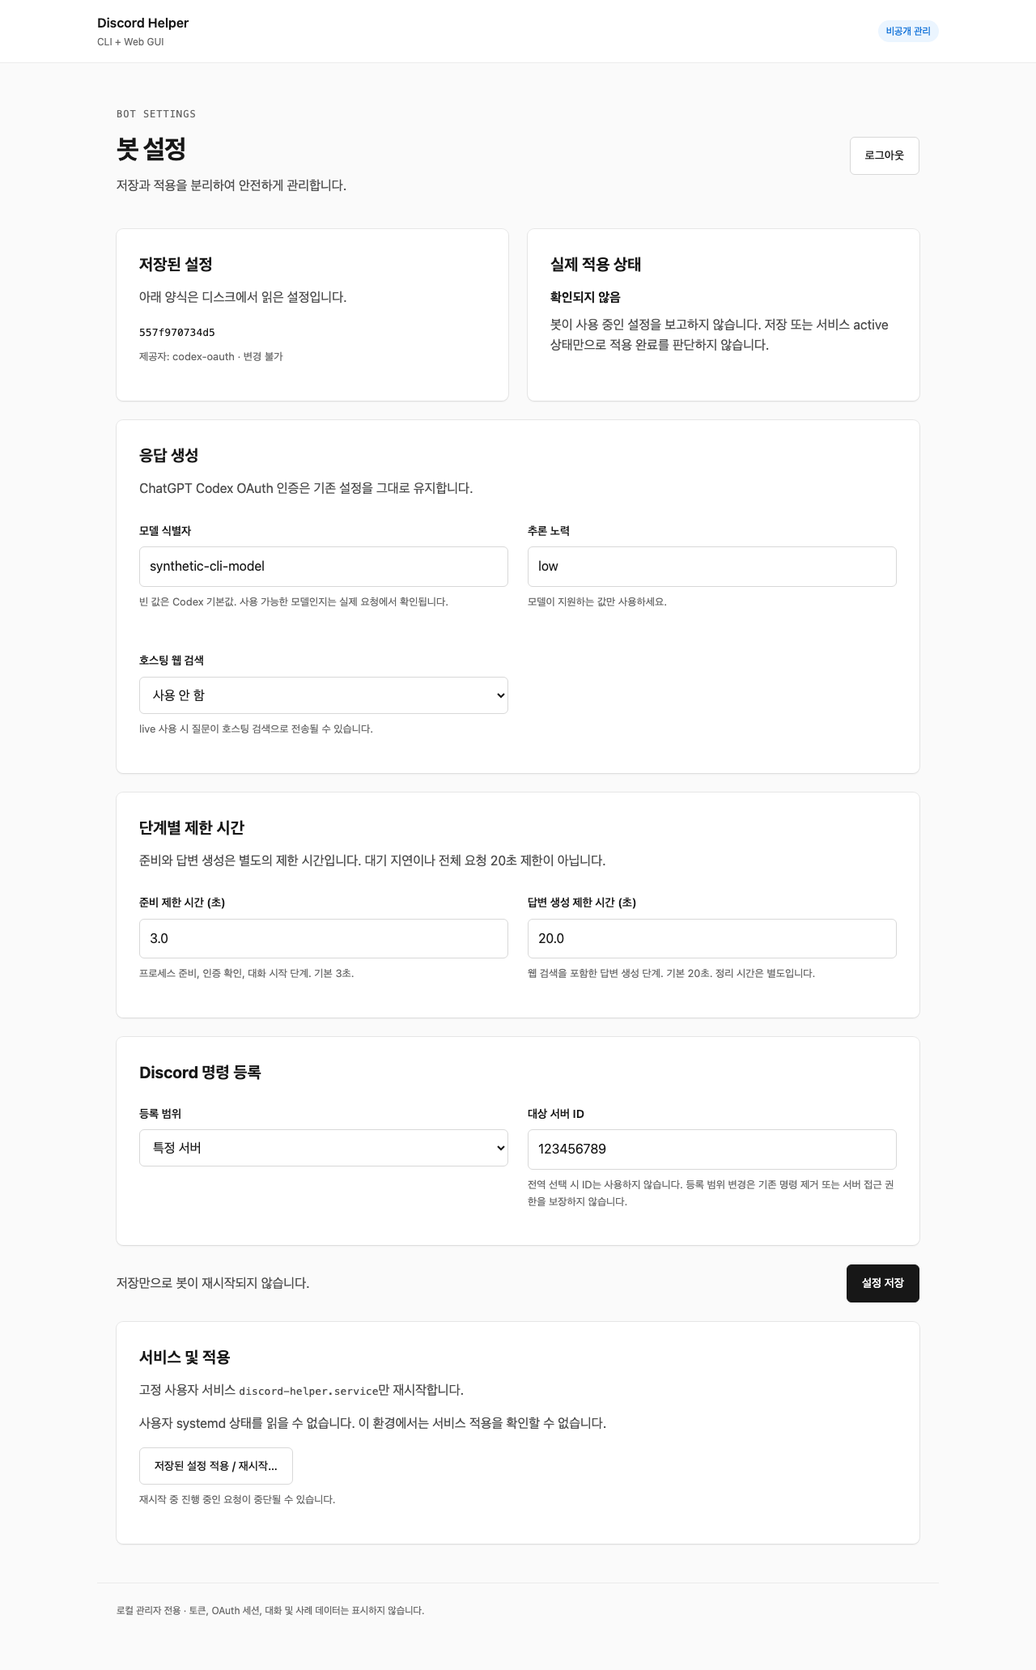
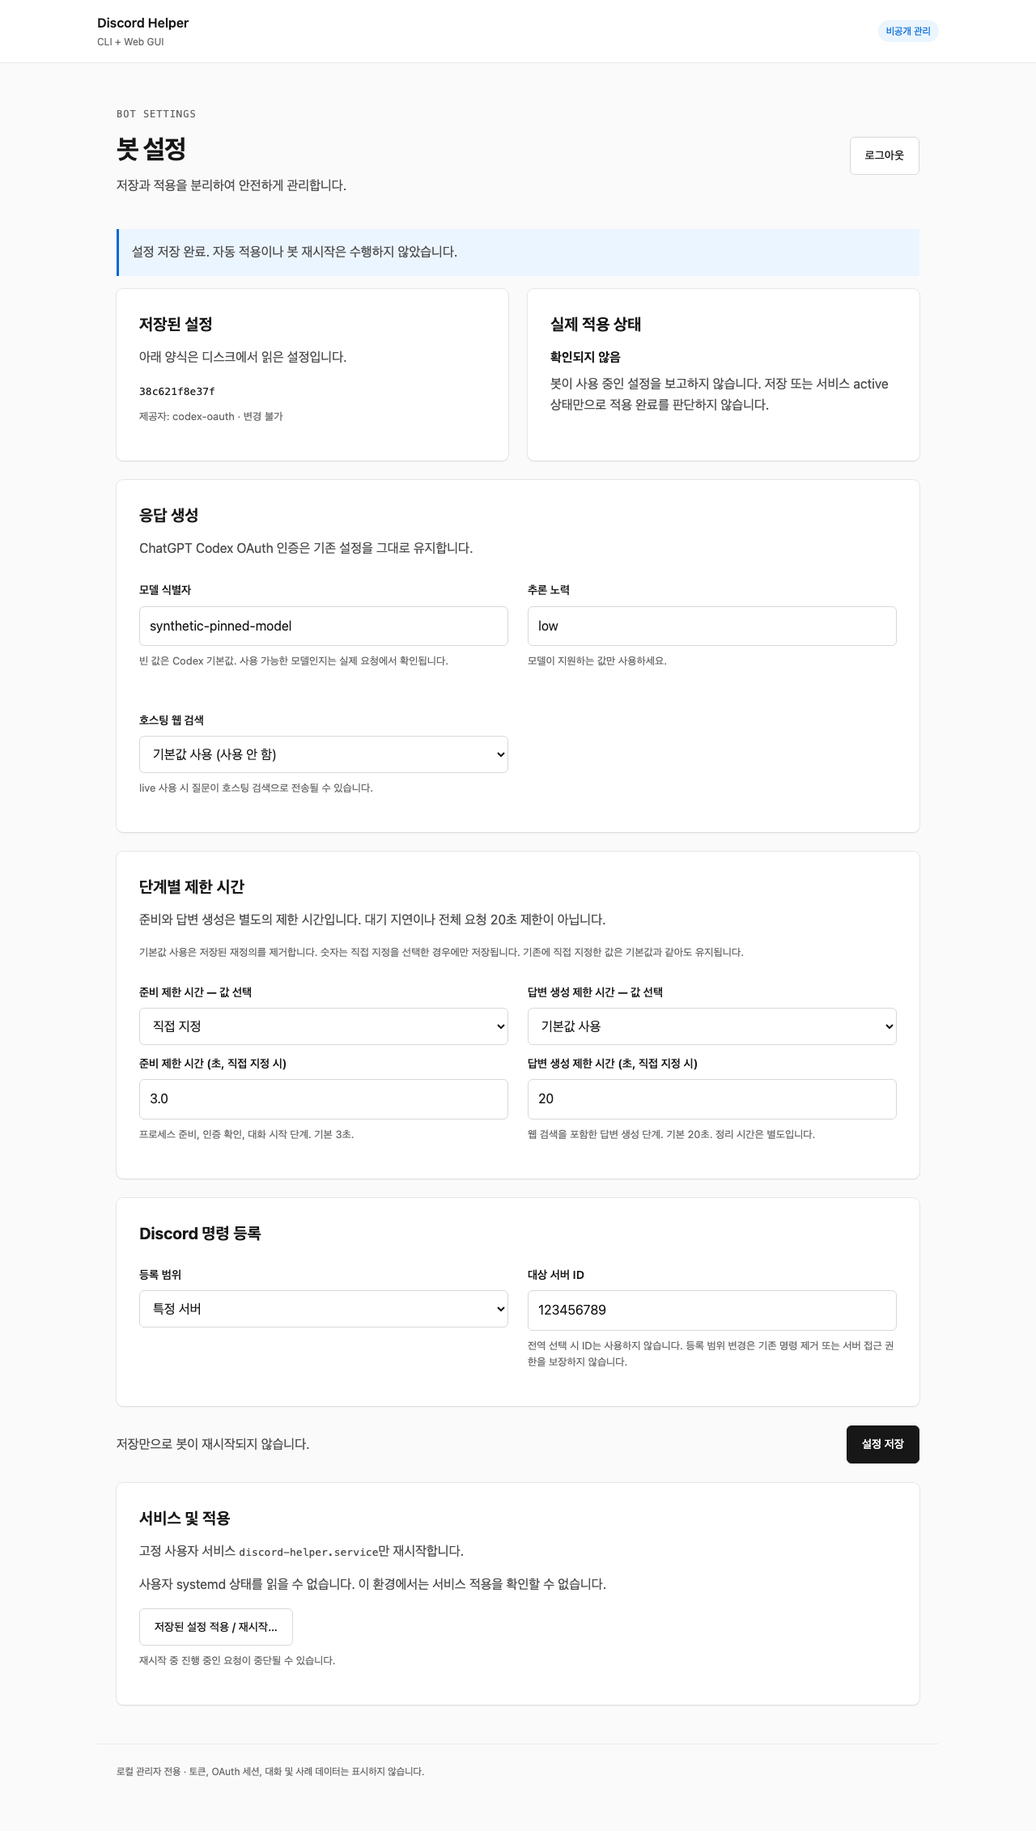
fix: preserve omitted GUI defaults with explicit override modes

diff --git a/helperbot/web_templates/settings.html b/helperbot/web_templates/settings.html
@@ -3,8 +3,25 @@
 {% if message %}<p role="status" class="notice">{{ message }}</p>{% endif %}
 <div class="summary"><section class="card"><h2>저장된 설정</h2><p>아래 양식은 디스크에서 읽은 설정입니다.</p><code>{{ config.revision[:12] }}</code><p class="hint">제공자: {{ config.provider }} · 변경 불가</p></section><section class="card"><h2>실제 적용 상태</h2><strong>확인되지 않음</strong><p>봇이 사용 중인 설정을 보고하지 않습니다. 저장 또는 서비스 active 상태만으로 적용 완료를 판단하지 않습니다.</p></section></div>
 <form method="post" action="/save">{{ csrf() }}<input type="hidden" name="revision" value="{{ config.revision }}">
-<section class="card"><h2>응답 생성</h2><p>ChatGPT Codex OAuth 인증은 기존 설정을 그대로 유지합니다.</p><div class="fields"><div><label for="model">모델 식별자</label><input id="model" name="model" maxlength="128" value="{{ config['values'].model }}" placeholder="Codex 기본값"><p class="hint">빈 값은 Codex 기본값. 사용 가능한 모델인지는 실제 요청에서 확인됩니다.</p></div><div><label for="effort">추론 노력</label><input id="effort" name="model_reasoning_effort" maxlength="128" value="{{ config['values'].model_reasoning_effort }}" placeholder="Codex 기본값"><p class="hint">모델이 지원하는 값만 사용하세요.</p></div><div><label for="web_search">호스팅 웹 검색</label><select id="web_search" name="web_search">{% for value,label in [('disabled','사용 안 함'),('live','실시간 검색 (live)')] %}<option value="{{ value }}" {% if config['values'].web_search == value %}selected{% endif %}>{{ label }}</option>{% endfor %}</select><p class="hint">live 사용 시 질문이 호스팅 검색으로 전송될 수 있습니다.</p></div></div></section>
-<section class="card"><h2>단계별 제한 시간</h2><p>준비와 답변 생성은 별도의 제한 시간입니다. 대기 지연이나 전체 요청 20초 제한이 아닙니다.</p><div class="fields"><div><label for="setup_timeout_seconds">준비 제한 시간 (초)</label><input id="setup_timeout_seconds" name="setup_timeout_seconds" type="number" step="any" required value="{{ config['values'].setup_timeout_seconds }}"><p class="hint">프로세스 준비, 인증 확인, 대화 시작 단계. 기본 3초.</p></div><div><label for="generation_timeout_seconds">답변 생성 제한 시간 (초)</label><input id="generation_timeout_seconds" name="generation_timeout_seconds" type="number" step="any" required value="{{ config['values'].generation_timeout_seconds }}"><p class="hint">웹 검색을 포함한 답변 생성 단계. 기본 20초. 정리 시간은 별도입니다.</p></div></div></section>
+<section class="card"><h2>응답 생성</h2><p>ChatGPT Codex OAuth 인증은 기존 설정을 그대로 유지합니다.</p><div class="fields"><div><label for="model">모델 식별자</label><input id="model" name="model" maxlength="128" value="{{ config['values'].model }}" placeholder="Codex 기본값"><p class="hint">빈 값은 Codex 기본값. 사용 가능한 모델인지는 실제 요청에서 확인됩니다.</p></div><div><label for="effort">추론 노력</label><input id="effort" name="model_reasoning_effort" maxlength="128" value="{{ config['values'].model_reasoning_effort }}" placeholder="Codex 기본값"><p class="hint">모델이 지원하는 값만 사용하세요.</p></div><div><label for="web_search">호스팅 웹 검색</label><select id="web_search" name="web_search">{% for value,label in [('', '기본값 사용 (사용 안 함)'),('disabled','사용 안 함'),('live','실시간 검색 (live)')] %}<option value="{{ value }}" {% if (config['values'].web_search if 'web_search' in config.configured else '') == value %}selected{% endif %}>{{ label }}</option>{% endfor %}</select><p class="hint">live 사용 시 질문이 호스팅 검색으로 전송될 수 있습니다.</p></div></div></section>
+<section class="card"><h2>단계별 제한 시간</h2>
+<p>준비와 답변 생성은 별도의 제한 시간입니다. 대기 지연이나 전체 요청 20초 제한이 아닙니다.</p>
+<p class="hint">기본값 사용은 저장된 재정의를 제거합니다. 숫자는 직접 지정을 선택한 경우에만 저장됩니다. 기존에 직접 지정한 값은 기본값과 같아도 유지됩니다.</p>
+<div class="fields">
+{% for key, label, hint in [
+    ('setup_timeout_seconds', '준비 제한 시간', '프로세스 준비, 인증 확인, 대화 시작 단계. 기본 3초.'),
+    ('generation_timeout_seconds', '답변 생성 제한 시간', '웹 검색을 포함한 답변 생성 단계. 기본 20초. 정리 시간은 별도입니다.')
+] %}
+<div><label for="{{ key }}_mode">{{ label }} — 값 선택</label>
+<select id="{{ key }}_mode" name="{{ key }}_mode">
+<option value="default" {% if key not in config.configured %}selected{% endif %}>기본값 사용</option>
+<option value="override" {% if key in config.configured %}selected{% endif %}>직접 지정</option>
+</select>
+<label for="{{ key }}">{{ label }} (초, 직접 지정 시)</label>
+<input id="{{ key }}" name="{{ key }}" type="number" step="any" value="{{ config['values'][key] }}">
+<p class="hint">{{ hint }}</p></div>
+{% endfor %}
+</div></section>
 <section class="card"><h2>Discord 명령 등록</h2><div class="fields"><div><label for="scope">등록 범위</label><select id="scope" name="scope"><option value="guild" {% if config['values'].sync_guild != none %}selected{% endif %}>특정 서버</option><option value="global" {% if config['values'].sync_guild == none %}selected{% endif %}>전체 서버 (전역)</option></select></div><div><label for="sync_guild">대상 서버 ID</label><input id="sync_guild" name="sync_guild" inputmode="numeric" maxlength="20" value="{{ config['values'].sync_guild if config['values'].sync_guild != none else '' }}"><p class="hint">전역 선택 시 ID는 사용하지 않습니다. 등록 범위 변경은 기존 명령 제거 또는 서버 접근 권한을 보장하지 않습니다.</p></div></div></section>
 <div class="actions"><p>저장만으로 봇이 재시작되지 않습니다.</p><button type="submit">설정 저장</button></div></form>
 <section class="card"><h2>서비스 및 적용</h2><p>고정 사용자 서비스 <code>discord-helper.service</code>만 재시작합니다.</p>{% if status.available %}<dl>{% for key,value in status.items() if key != 'available' %}<dt>{{ key }}</dt><dd>{{ value }}</dd>{% endfor %}</dl>{% else %}<p>사용자 systemd 상태를 읽을 수 없습니다. 이 환경에서는 서비스 적용을 확인할 수 없습니다.</p>{% endif %}<a class="button secondary" href="/apply">저장된 설정 적용 / 재시작…</a><p class="hint">재시작 중 진행 중인 요청이 중단될 수 있습니다.</p></section>{% endblock %}

diff --git a/tests/test_web_admin.py b/tests/test_web_admin.py
@@ -1,4 +1,31 @@
 import re
+import json
+from html.parser import HTMLParser
+
+
+class SettingsForm(HTMLParser):
+    """Collect the controls a browser submits, including selected modes."""
+    def __init__(self, html):
+        super().__init__()
+        self.data = {}
+        self.select = None
+        self.feed(html)
+
+    def handle_starttag(self, tag, attrs):
+        attrs = dict(attrs)
+        if tag == 'input' and 'name' in attrs:
+            self.data[attrs['name']] = attrs.get('value', '')
+        elif tag == 'select':
+            self.select = attrs['name']
+        elif tag == 'option' and self.select:
+            if self.select not in self.data or 'selected' in attrs:
+                self.data[self.select] = attrs['value']
+
+    def handle_endtag(self, tag):
+        if tag == 'select':
+            self.select = None
+
+
 import pytest
 pytest.importorskip('flask')
 pytest.importorskip('flask_wtf')
@@ -7,6 +34,80 @@ from test_settings_ops import paths_at
 
 def csrf(response):
     return re.search(r'name="csrf_token" value="([^"]+)"', response.get_data(as_text=True))[1]
+
+
+@pytest.mark.parametrize('options', [{}, {'setup_timeout_seconds': 3, 'generation_timeout_seconds': 20},
+                                      {'setup_timeout_seconds': 2.5, 'generation_timeout_seconds': 45},
+                                      {'setup_timeout_seconds': 3, 'web_search': 'disabled'},
+                                      {'generation_timeout_seconds': 20, 'web_search': 'live',
+                                       'model_reasoning_effort': 'high'}])
+def test_model_only_rendered_form_preserves_all_other_config(tmp_path, options):
+    from helperbot.web_admin import bootstrap_admin, create_app
+    paths = paths_at(tmp_path)
+    target = paths.config/'runtime.json'
+    before = {'provider': 'codex-oauth', 'sync_guild': None,
+              'codex': dict(options, model='before')}
+    target.write_text(json.dumps(before))
+    bootstrap_admin(paths, 'synthetic-test-passphrase-only')
+    client = create_app(paths, port=8765).test_client()
+    base = 'http://127.0.0.1:8765'
+    page = client.get('/login', base_url=base)
+    assert client.post('/login', base_url=base, headers={'Origin': base}, data={
+        'password': 'synthetic-test-passphrase-only', 'csrf_token': csrf(page)}).status_code == 302
+    page = client.get('/', base_url=base)
+    data = SettingsForm(page.get_data(as_text=True)).data
+    data['model'] = 'after'
+    assert client.post('/save', base_url=base, headers={'Origin': base}, data=data).status_code == 302
+    before['codex']['model'] = 'after'
+    assert json.loads(target.read_text()) == before
+
+
+@pytest.mark.parametrize('mode,value,status', [
+    ('default', 'ignored', 302), ('override', '3', 302), ('override', '2.5', 302),
+    (None, '3', 400), ('invalid', '3', 400), ('override', '', 400),
+    ('override', 'nan', 400), ('override', 'inf', 400), ('override', '0', 400),
+    ('override', '-1', 400), ('override', '121', 400), ('override', 'true', 400),
+])
+@pytest.mark.parametrize('key', ['setup_timeout_seconds', 'generation_timeout_seconds'])
+def test_timeout_mode_validation_reset_and_stale_form(tmp_path, mode, value, status, key):
+    from helperbot.web_admin import bootstrap_admin, create_app
+    from helperbot.settings_ops import save_settings, read_settings
+    paths = paths_at(tmp_path)
+    target = paths.config/'runtime.json'
+    original = {'provider': 'codex-oauth', 'sync_guild': 123, 'codex': {
+        'model': 'before', 'model_reasoning_effort': 'high', 'web_search': 'live',
+        'setup_timeout_seconds': 3, 'generation_timeout_seconds': 20}}
+    target.write_text(json.dumps(original))
+    bootstrap_admin(paths, 'synthetic-test-passphrase-only')
+    client = create_app(paths, port=8765).test_client()
+    base = 'http://127.0.0.1:8765'
+    page = client.get('/login', base_url=base)
+    assert client.post('/login', base_url=base, headers={'Origin': base}, data={
+        'password': 'synthetic-test-passphrase-only', 'csrf_token': csrf(page)}).status_code == 302
+    data = SettingsForm(client.get('/', base_url=base).get_data(as_text=True)).data
+    if mode is None:
+        del data[key + '_mode']
+    else:
+        data[key + '_mode'] = mode
+    data[key] = value
+    before_bytes = target.read_bytes()
+    assert client.post('/save', base_url=base, headers={'Origin': base}, data=data).status_code == status
+    if status == 400:
+        assert target.read_bytes() == before_bytes
+    else:
+        expected = json.loads(before_bytes)
+        if mode == 'default':
+            del expected['codex'][key]
+        else:
+            expected['codex'][key] = float(value)
+        assert json.loads(target.read_text()) == expected
+    # A valid stale default-reset form must not erase a newer CLI override.
+    data = SettingsForm(client.get('/', base_url=base).get_data(as_text=True)).data
+    data[key + '_mode'] = 'default'
+    save_settings(paths, {key: 4.5}, read_settings(paths)['revision'])
+    latest = target.read_bytes()
+    assert client.post('/save', base_url=base, headers={'Origin': base}, data=data).status_code == 400
+    assert target.read_bytes() == latest
 
 
 def test_real_login_csrf_and_authenticated_settings(tmp_path):
@@ -36,6 +137,7 @@ def test_real_login_csrf_and_authenticated_settings(tmp_path):
         'csrf_token': csrf(page), 'revision': read_settings(paths)['revision'],
         'model': 'synthetic-model', 'model_reasoning_effort': 'low', 'web_search': 'live',
         'scope': 'guild', 'sync_guild': '456', 'setup_timeout_seconds': '2.5',
-        'generation_timeout_seconds': '25'})
+        'generation_timeout_seconds': '25', 'setup_timeout_seconds_mode': 'override',
+        'generation_timeout_seconds_mode': 'override'})
     assert response.status_code == 302
     assert read_settings(paths)['values']['setup_timeout_seconds'] == 2.5

diff --git a/tests/web_browser_smoke.py b/tests/web_browser_smoke.py
@@ -45,8 +45,7 @@ def main():
             return subprocess.run(cli+args, cwd=root, check=True, text=True, capture_output=True).stdout
         shown = json.loads(command(['settings', 'show']))
         saved = json.loads(command(['settings', 'set', '--revision', shown['revision'],
-                                    '--model', 'synthetic-cli-model', '--setup-timeout-seconds', '3',
-                                    '--generation-timeout-seconds', '20']))
+                                    '--model', 'synthetic-cli-model']))
         assert saved['values']['model'] == 'synthetic-cli-model'
         with socket.socket() as sock:
             sock.bind(('127.0.0.1', 0))
@@ -91,6 +90,35 @@ def main():
                 assert page.locator('#model').input_value() == 'synthetic-cli-model'
                 assert page.locator('strong').inner_text() == '확인되지 않음'
                 assert page.locator('.card').first.evaluate('(e) => getComputedStyle(e).borderRadius') == '8px'
+                # Submit the actual rendered form changing only model. Compare every
+                # raw key, not resolved values (which conceal omission regressions).
+                before = json.loads(runtime.read_text())
+                page.locator('#model').fill('synthetic-omitted-model')
+                page.get_by_role('button', name='설정 저장', exact=True).click()
+                page.wait_for_url(base+'/')
+                before['codex']['model'] = 'synthetic-omitted-model'
+                assert json.loads(runtime.read_text()) == before
+                omitted_readback = json.loads(command(['settings', 'show']))
+                assert omitted_readback['values']['setup_timeout_seconds'] == 3
+                assert omitted_readback['values']['generation_timeout_seconds'] == 20
+                # Explicit defaults must remain pinned on unrelated edits.
+                command(['settings', 'set', '--revision', omitted_readback['revision'],
+                         '--setup-timeout-seconds', '3', '--generation-timeout-seconds', '20'])
+                page.reload()
+                before = json.loads(runtime.read_text())
+                page.locator('#model').fill('synthetic-pinned-model')
+                page.get_by_role('button', name='설정 저장', exact=True).click()
+                page.wait_for_url(base+'/')
+                before['codex']['model'] = 'synthetic-pinned-model'
+                assert json.loads(runtime.read_text()) == before
+                assert page.locator('#setup_timeout_seconds_mode').input_value() == 'override'
+                # Deliberate reset removes only the chosen key.
+                page.locator('#generation_timeout_seconds_mode').select_option('default')
+                page.get_by_role('button', name='설정 저장', exact=True).click()
+                page.wait_for_url(base+'/')
+                del before['codex']['generation_timeout_seconds']
+                assert json.loads(runtime.read_text()) == before
+                assert page.locator('#generation_timeout_seconds_mode').input_value() == 'default'
                 shot('02-settings-desktop')
                 page.locator('#model').fill('synthetic-web-model')
                 page.locator('#setup_timeout_seconds').fill('2.5')
@@ -101,6 +129,11 @@ def main():
                 assert readback['values']['model'] == 'synthetic-web-model'
                 assert readback['values']['setup_timeout_seconds'] == 2.5
                 assert readback['applied'] is None
+                before['codex'].update(model='synthetic-web-model', setup_timeout_seconds=2.5)
+                assert json.loads(runtime.read_text()) == before
+                (evidence/'config-readback.json').write_text(json.dumps({
+                    'omitted_defaults': omitted_readback, 'final_raw': before,
+                    'final_cli': readback, 'all_unedited_keys_preserved': True}, indent=2)+'\n')
                 shot('03-saved-readback')
                 page.locator('#model').fill('invalid model with spaces')
                 page.get_by_role('button', name='설정 저장', exact=True).click()
@@ -130,7 +163,9 @@ def main():
             assert sorted(p.name for p in paths.data.iterdir()) == ['codex', 'state.db']
             manifest = {'synthetic_only': True, 'screenshots': shots, 'count': len(shots),
                         'verified': ['packaged_waitress', 'cli_show_set_readback', 'browser_login_logout',
-                                     'gui_save_cli_readback', 'validation_no_write', 'csrf_rejection',
+                                     'gui_save_cli_readback', 'omitted_defaults_preserved',
+                                     'explicit_defaults_preserved', 'deliberate_default_reset',
+                                     'all_unedited_config_keys_preserved', 'validation_no_write', 'csrf_rejection',
                                      'restart_confirmation_cancel', 'responsive_390px', 'local_assets_only', 'synthetic_credentials_auth_db_preserved'],
                         'not_verified': ['live_systemd_restart', 'bot_applied_settings', 'Discord', 'OAuth_inference']}
             (evidence/'manifest.json').write_text(json.dumps(manifest, indent=2)+'\n')

diff --git a/helperbot/settings_ops.py b/helperbot/settings_ops.py
@@ -67,7 +67,8 @@ def read_settings(paths):
     values.update({key: options.get(key, default) for key, default in TIMEOUT_DEFAULTS.items()})
     values['sync_guild'] = config['sync_guild']
     return {'revision': revision(config), 'values': values,
-            'provider': config['provider'], 'applied': None}
+            'provider': config['provider'], 'applied': None,
+            'configured': list(options)}
 
 
 @contextmanager
@@ -102,6 +103,11 @@ def atomic_json(target, value):
 
 
 def save_settings(paths, changes, expected_revision):
+    """Partial update; an empty optional value explicitly removes its override.
+
+    Clear commands are not persisted as empty strings. The resulting runtime
+    config still passes the shared provider validator under the revision lock.
+    """
     with settings_lock(paths):
         current = runtime_config(paths)
         if revision(current) != expected_revision:
@@ -113,7 +119,8 @@ def save_settings(paths, changes, expected_revision):
         for key, value in changes.items():
             if key == 'sync_guild':
                 updated[key] = value
-            elif value == '' and key in ('model', 'model_reasoning_effort'):
+            elif value == '' and key in ('model', 'model_reasoning_effort', 'web_search',
+                                         *TIMEOUT_DEFAULTS):
                 options.pop(key, None)
             else:
                 options[key] = value

diff --git a/helperbot/web_admin.py b/helperbot/web_admin.py
@@ -160,7 +160,13 @@ def create_app(paths, *, port=8765):
         changes['sync_guild'] = guild
         try:
             for key in ('setup_timeout_seconds', 'generation_timeout_seconds'):
-                changes[key] = float(request.form.get(key, ''))
+                mode = request.form.get(key + '_mode')
+                if mode == 'default':
+                    changes[key] = ''
+                elif mode == 'override':
+                    changes[key] = float(request.form.get(key, ''))
+                else:
+                    raise ManagementError('제한 시간 기본값 또는 직접 지정을 선택하세요.')
         except ValueError:
             raise ManagementError('제한 시간은 숫자로 입력하세요.') from None
         save_settings(paths, changes, request.form.get('revision'))

diff --git a/docs/timeout-contract.md b/docs/timeout-contract.md
@@ -1,6 +1,6 @@
 # Timeout configuration contract
 
-CLI and future GUI must share `helperbot.codex_transport.validate_options`; do not duplicate validation. Runtime loading already calls that validator for `runtime.json.codex`.
+CLI and GUI must share `helperbot.codex_transport.validate_options`; do not duplicate validation. Runtime loading already calls that validator for `runtime.json.codex`.
 
 Shared default constants: `DEFAULT_SETUP_TIMEOUT` and `DEFAULT_GENERATION_TIMEOUT` in that same module. Leave omitted settings omitted when saving unrelated fields; preserve other operator options.
 
@@ -18,6 +18,7 @@ Shared default constants: `DEFAULT_SETUP_TIMEOUT` and `DEFAULT_GENERATION_TIMEOU
 - `setup_timeout_seconds`: default **3**, exact Python int/float (JSON number), finite, **0 < value <= 30** seconds.
 - `generation_timeout_seconds`: default **20**, exact Python int/float (JSON number), finite, **0 < value <= 120** seconds.
 - Reject bool, string, null, zero, negative, NaN, infinity, out-of-range numbers, and unknown keys. Fractions are allowed; omission selects the default.
+- GUI timeout controls explicitly select **기본값 사용** (use default / remove the key) or **직접 지정** (override / validate and store the numeric value). Omitted keys render in default mode; existing explicit values, including 3/20, render in override mode. Editing only the model preserves both omission and overrides. Numeric inputs are ignored in default mode; missing/unknown modes are rejected. The search selector likewise distinguishes omission from explicit disabled/live. Reset and save use the same revision guard and atomic shared validator as CLI edits.
 - These are application deadlines, never forwarded as Codex CLI `-c` settings. Existing `web_search`, `model`, `model_reasoning_effort` options are unchanged.
 - Preparation includes isolated request directory/process setup, initialize, config validation, account check, and thread/start plus thread validation. It is a maximum duration, **not a fixed sleep**.
 - Once preparation succeeds, generation gets its own fresh budget for turn/start and complete validated output, including hosted web search. Unused setup time is not added to generation.
